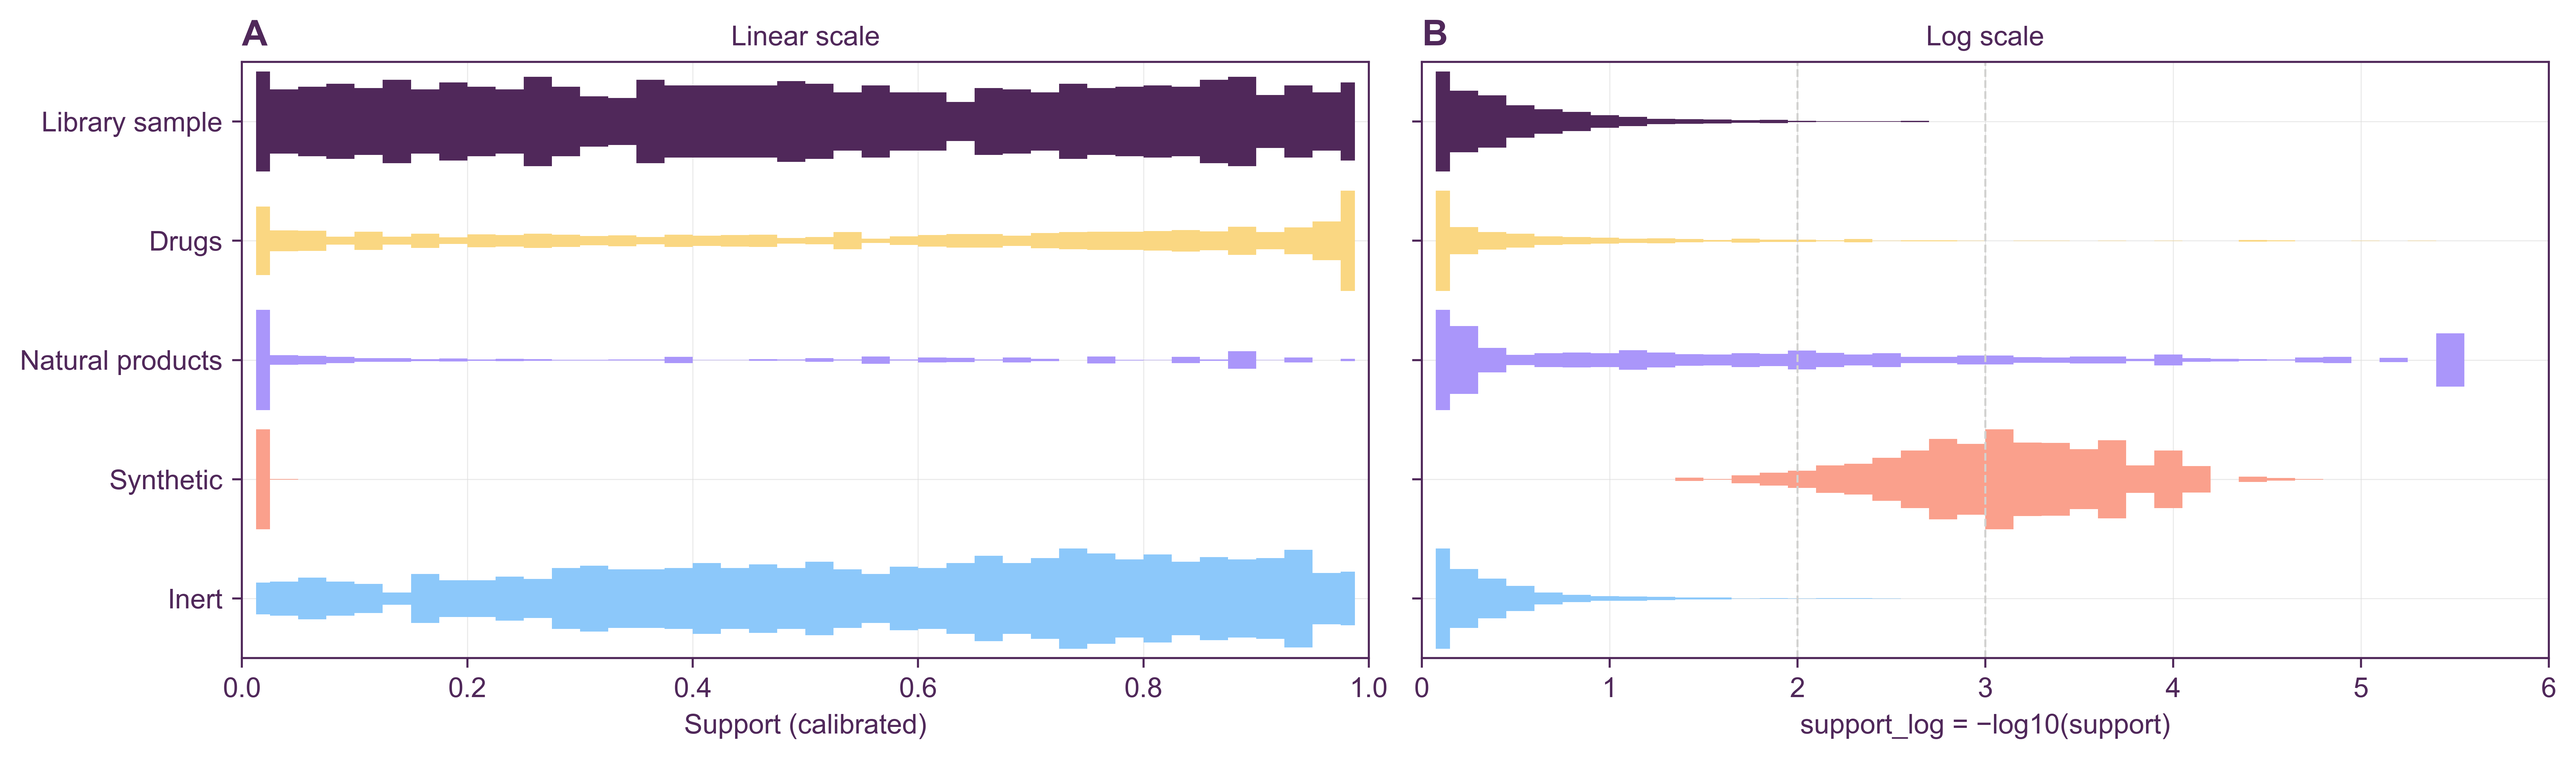
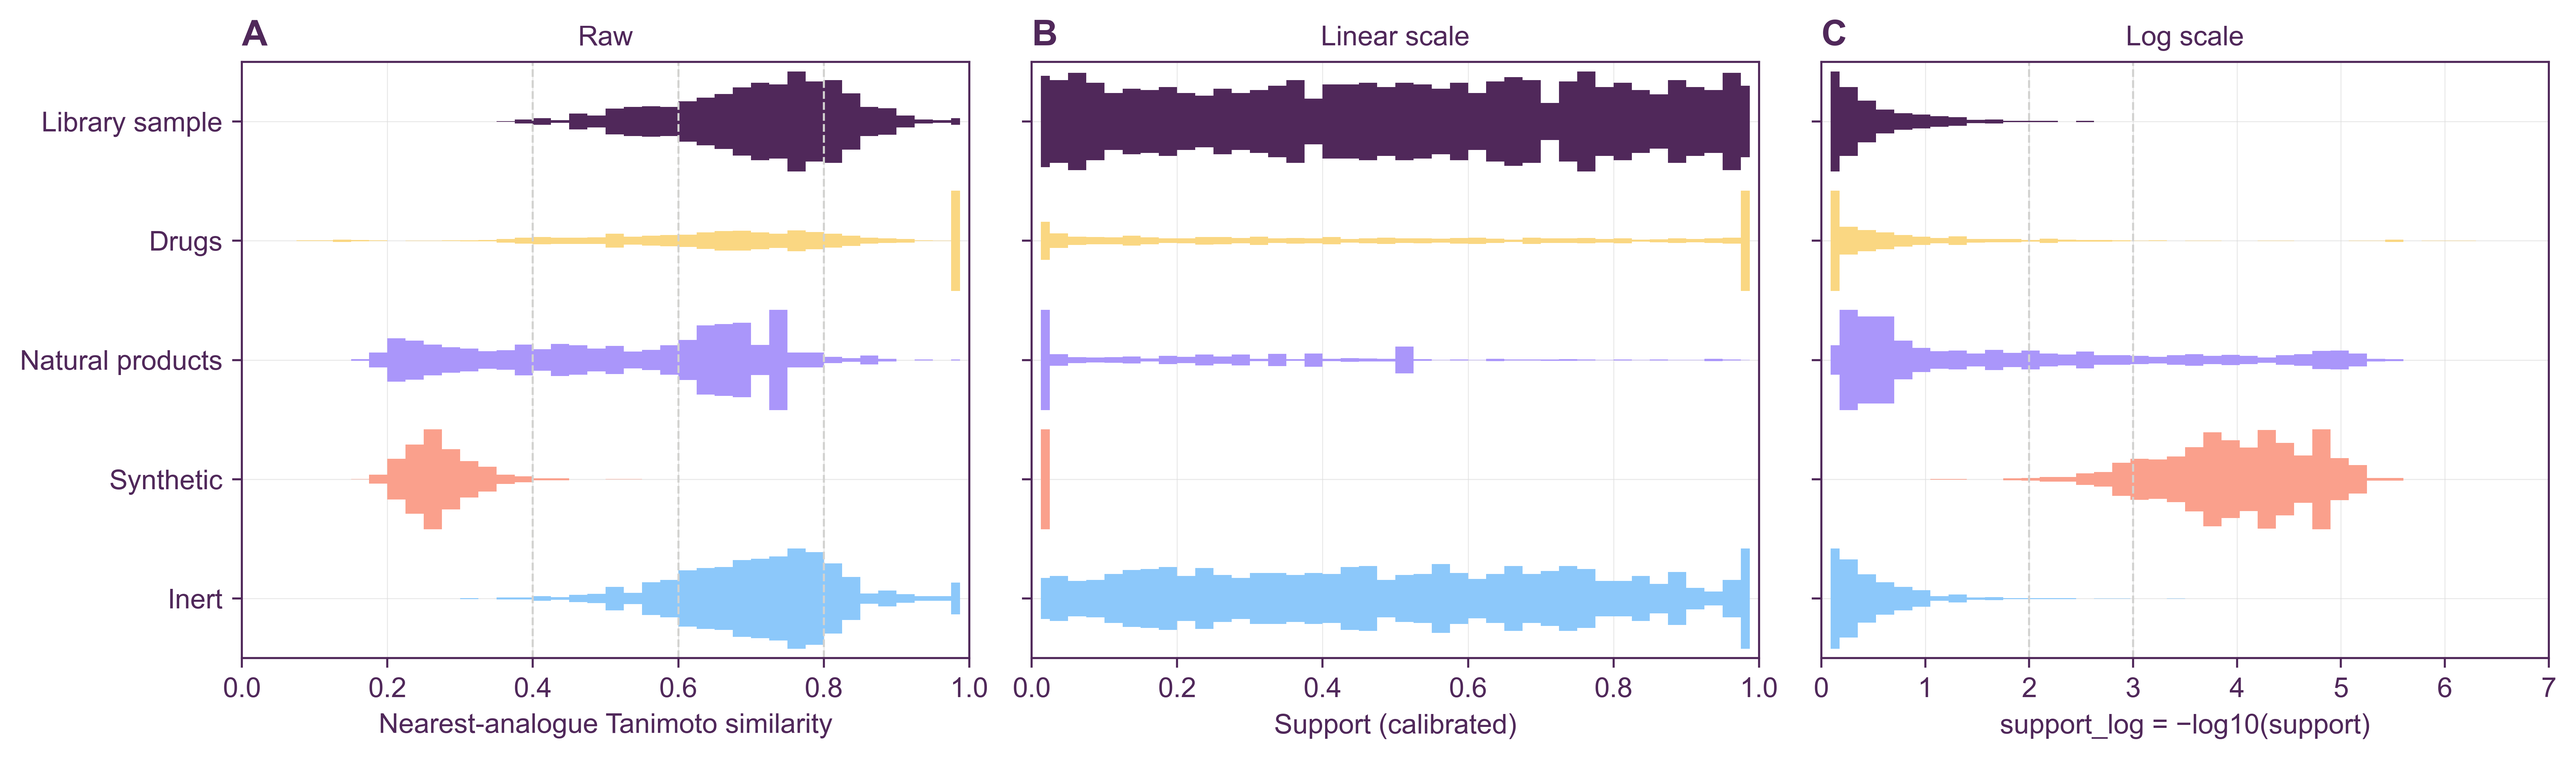
Refresh figures and status for format 4 (nearest-analogue support)

diff --git a/scripts/figures/support_log.py b/scripts/figures/support_log.py
@@ -1,9 +1,11 @@
-"""Support on two scales: calibrated support (0–1) vs support_log = −log10(support).
+"""Support three ways: nearest-analogue similarity, calibrated support, support_log.
 
-Support depends only on chemistry, so one model's CSVs are enough. Left:
-calibrated support per query set — far-out sets collapse onto 0. Right:
-the same values as support_log, where they separate; dashed lines mark
-the 1%, 0.1% tails of same-size library molecules.
+Support depends only on chemistry, so one model's CSVs are enough.
+A: raw nearest-analogue Tanimoto similarity per query set, with the 0.4 /
+0.6 / 0.8 "related / close / near-identical" thresholds. B: calibrated
+support (0–1) — far-out sets collapse onto 0. C: the same as
+support_log = −log10(support), where they separate; dashed lines mark the
+1% and 0.1% tails of the library.
 
     python scripts/figures/support_log.py [--scores-dir output/]
 """
@@ -37,40 +39,52 @@ def main():
     df = load_scores(args.scores_dir)
     if "support_log" not in df.columns:
         raise SystemExit(
-            "These score CSVs have no support_log column (artifact format < 3)."
+            "These score CSVs have no support_log column (artifact format < 4)."
         )
     df = df[df["model"] == sorted(df["model"].unique())[0]]
     sets = present(QUERY_SETS, df["query_set"].unique())
     colors = stylia.CategoricalPalette("ersilia").get(len(sets))
     labels = [QUERY_SET_LABELS.get(s, s) for s in sets]
 
-    fig, axs = stylia.create_figure(1, 2)
+    gray = stylia.ErsiliaColors().gray
+
+    def column(name):
+        return [df.loc[df.query_set == s, name].to_numpy(float) for s in sets]
+
+    fig, axs = stylia.create_figure(1, 3)
     ax = axs.next()
-    plot_violins(
-        ax,
-        [df.loc[df.query_set == s, "support"].to_numpy(float) for s in sets],
-        colors,
-        0,
-        1,
-    )
+    plot_violins(ax, column("support_raw"), colors, 0, 1)
+    for x in (0.4, 0.6, 0.8):
+        ax.axvline(x, color=gray, linestyle="--")
     ax.set_yticklabels(labels)
     stylia.label(
-        ax, xlabel="Support (calibrated)", ylabel="", title="Linear scale", abc="A"
+        ax,
+        xlabel="Nearest-analogue Tanimoto similarity",
+        ylabel="",
+        title="Raw",
+        abc="A",
     )
 
     ax = axs.next()
-    values = [df.loc[df.query_set == s, "support_log"].to_numpy(float) for s in sets]
+    plot_violins(ax, column("support"), colors, 0, 1)
+    ax.set_yticklabels([])
+    stylia.label(
+        ax, xlabel="Support (calibrated)", ylabel="", title="Linear scale", abc="B"
+    )
+
+    ax = axs.next()
+    values = column("support_log")
     hi = float(np.ceil(np.nanmax(np.concatenate(values))))
     plot_violins(ax, values, colors, 0, hi)
     for x in (2, 3):
-        ax.axvline(x, color=stylia.ErsiliaColors().gray, linestyle="--")
+        ax.axvline(x, color=gray, linestyle="--")
     ax.set_yticklabels([])
     stylia.label(
         ax,
         xlabel="support_log = −log10(support)",
         ylabel="",
         title="Log scale",
-        abc="B",
+        abc="C",
     )
 
     args.out_dir.mkdir(parents=True, exist_ok=True)

diff --git a/docs/status.md b/docs/status.md
@@ -1,6 +1,6 @@
 # Project status
 
-**Status:** package `0.1.0`, library `ersilia_reference_library_v0` (1,355,109 molecules), artifact format 3. The project is a work in progress. The four default scores are functional and calibrated; Signal is provisional.
+**Status:** package `0.1.0`, library `ersilia_reference_library_v0` (1,355,109 molecules), artifact format 4. The project is a work in progress. The four default scores are functional and calibrated; Signal is provisional.
 
 ## Example results
 
@@ -43,24 +43,31 @@ The query sets:
   - The Cytotox model treats synthetic molecules as typical but noisy.
 - **Inert set:** looks like the library sample on the output scores. That is expected: its median distance to the library (0.36) equals the library's own, so these molecules are chemically library-like even though only 0.4% of them are in it.
 
-### Support far from the library
+### Support: closest library analogue
 
-![Support on linear and log scale](figures/support_log.png)
+![Support: raw similarity, linear and log scale](figures/support_log.png)
 
-| Query set | support median | `support_log` median (p90) |
-|---|---|---|
-| Library sample | 0.48 | 0.32 (1.05) |
-| Drugs | 0.65 | 0.18 (1.50) |
-| Natural products | 0.06 | 1.22 (5.17) |
-| Synthetic | 0.001 | 3.11 (3.92) |
-| Inert | 0.61 | 0.22 (0.74) |
+Since format 4, support asks whether the library contains a close analogue of the molecule. The raw value is the Tanimoto similarity of the nearest library molecule; the dashed lines in panel A mark 0.4 (related chemistry), 0.6 (close analogue) and 0.8 (near-identical).
 
-Every synthetic molecule is further from the library than 99% of library molecules are from their own neighbours. This holds even when they are compared only with library molecules of the same size (they are small, median 30 set bits). They are generated, strained ring systems unlike the drug-like library. On the 0–1 scale they all collapse onto 0, while `support_log` separates them from natural products (about 1.2) and from each other.
+| Query set | nearest-analogue similarity (median) | support median | `support_log` median (p90) |
+|---|---|---|---|
+| Library sample | 0.73 | 0.51 | 0.30 (1.10) |
+| Drugs | 0.74 | 0.55 | 0.26 (1.72) |
+| Natural products | 0.59 | 0.15 | 0.83 (4.52) |
+| Synthetic | 0.26 | < 0.001 | 4.07 (4.83) |
+| Inert | 0.72 | 0.50 | 0.30 (0.93) |
 
-**Size conditioning.** Since format 3, support is calibrated per fingerprint-size bin, which removes Tanimoto's size bias:
-- the correlation of support with size on library molecules drops from ρ = 0.32 to −0.02;
-- large natural products lose their size advantage (median 0.17 → 0.06);
-- small drugs gain (0.54 → 0.65).
+What the panels show:
+- **Synthetic molecules.** 99% have no library analogue at Tanimoto ≥ 0.4. They are generated, strained ring systems unlike the drug-like library.
+- **Natural products** split into two groups: those with real analogues in the library (around 0.7) and novel scaffolds (0.2–0.4).
+- **Drugs.** The spike of drugs at 1.0 consists of drugs with a fingerprint-identical stereoisomer in the library (see the self-match rule under Decisions to review).
+- **The 0–1 scale** collapses everything far from the library onto 0; `support_log` keeps those molecules apart.
+
+**How the definition was chosen.** These options were compared on the five query sets:
+- **Nearest-analogue similarity (chosen).** It calibrates as well as the previous definition (KS 0.024) and separates natural products from library molecules best (AUC 0.79).
+- **Mean distance to the 5 nearest neighbours (format 1–2).** AUC 0.72 for natural products.
+- **Analogue counts above 0.4 or 0.6.** Too many ties to calibrate (KS up to 0.25).
+- **Calibration within fingerprint-size bins (format 3).** Removed the size bias, but tracked neighbour output disagreement no better on average and hid size effects that matter for property models such as MW and ADMET.
 
 ### Redundancy
 
@@ -69,17 +76,17 @@ Every synthetic molecule is further from the library than 99% of library molecul
 Spearman correlations between calibrated scores, pooled over all queries of a model:
 - **Typicality vs extremity:** ρ = −0.56 to −0.95 (−0.85 to −0.95 for the one-output models). For single-output models the two are nearly redundant: a value far from the centre is almost always a rare value.
 - **Typicality vs consistency:** moderately correlated (0.21–0.61).
-- **Support** is roughly independent of the output scores except for MW (0.57 with typicality), where molecular weight is itself a chemical-space proxy.
+- **Support** is roughly independent of the output scores except for MW (0.64 with typicality), where molecular weight is itself a chemical-space proxy.
 - **Signal** is weakly correlated with everything (|ρ| ≤ 0.54).
 
 ### What changed since the previous artifacts
 
-Comparing the current scores on the 25 example sets with format 1 (old CSVs in `output/format1/`; old calibration plot `figures/reference_calibration_format1.png`). Format-2 outputs are kept in `output/format2/`.
+Comparing the current scores on the 25 example sets with format 1 (old CSVs in `output/format1/`; old calibration plot `figures/reference_calibration_format1.png`). 
 - **Extremity and signal:** unchanged.
 - **Typicality:** shifted by at most 0.017 (mid-rank ties).
 - **Missing values:** none of the five example models have NaN outputs, so the NaN-policy fixes do not affect these examples. They matter for models with missing outputs.
 - **Self-match rule:** about 25% of drugs gained support and consistency changed for them. These are molecules not in the library as written whose stereo-free form is (see Decisions to review).
-- **Support:** now size-conditioned (format 3; see above).
+- **Support:** redefined as nearest-analogue similarity (format 4; see above). Format-2 and format-3 outputs are kept in `output/format2/` and `output/format3/`.
 
 ## Decisions to review
 
